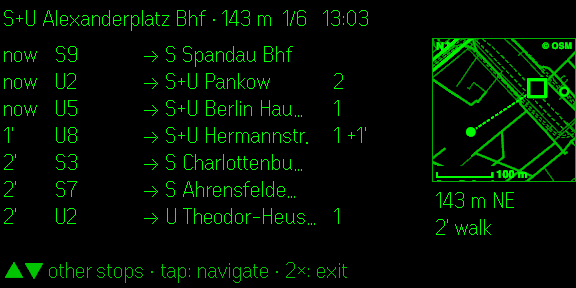
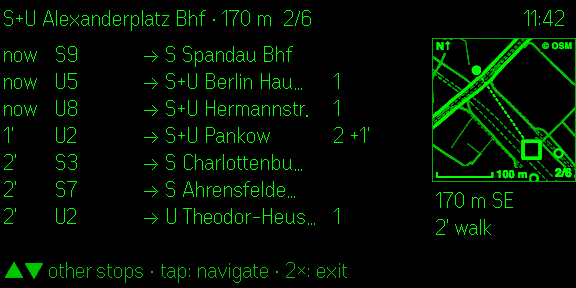
Release 0.5.0: clock and departure time on the board
- clock in the top right corner of every screen, updated on the minute
  together with the rest of the page
- departure board without map: scheduled departure time in its own
  column next to "departs in" (with the map there is no room, and the
  page would need 9 text containers; the glasses allow 8)
- "departs in" stays short for far departures ("85'", "2h") instead of
  a clock time that wrapped in the narrow column of the map layout
- leave out departures more than a day ahead (Transitous returned tram
  departures weeks ahead for a suspended line)
- journey header split in two containers, so the first line ends left
  of the clock and the next step keeps the full width
- headers shortened where they would run into the clock
- new store screenshots

Version 0.5.0.

diff --git a/src/glasses.ts b/src/glasses.ts
@@ -56,21 +56,31 @@ const LIST_ITEM_BYTES = 60
 const LIST_MAX_ITEMS = 20
 const CONFIRM_ITEMS = ['Continue journey', 'Close app · stay checked in', 'Check out'] as const
 const BOARD_FOOTER = '▲▼ other stops · tap: navigate · 2×: exit'
-const BOARD_COLUMNS = [
-  { name: 'when', x: 0, w: 70, capture: false },
-  { name: 'line', x: 70, w: 100, capture: false },
-  { name: 'dest', x: 170, w: 316, capture: true },
-  { name: 'info', x: 486, w: 90, capture: false },
-] as const
-/** Same columns, narrower, leaving room for the map on the right. */
+/** Clock in the top right corner of every page; headers end left of it. */
+const CLOCK_X = 520
+const CLOCK_W = 576 - CLOCK_X
+type BoardColumn = { name: keyof BoardRow; x: number; w: number; capture: boolean }
+const BOARD_COLUMNS: readonly BoardColumn[] = [
+  { name: 'time', x: 0, w: 62, capture: false },
+  { name: 'when', x: 62, w: 48, capture: false },
+  { name: 'line', x: 110, w: 92, capture: false },
+  { name: 'dest', x: 202, w: 286, capture: true },
+  { name: 'info', x: 488, w: 88, capture: false },
+]
+/** Narrower, leaving room for the map on the right. Without the departure time: there is no
+ *  room for it, and the page would need 9 text containers (the glasses allow 8). */
 const MAP_X = 576 - MAP_W
-const BOARD_COLUMNS_MAP = [
+const BOARD_COLUMNS_MAP: readonly BoardColumn[] = [
   { name: 'when', x: 0, w: 52, capture: false },
   { name: 'line', x: 52, w: 88, capture: false },
   { name: 'dest', x: 140, w: 190, capture: true },
   { name: 'info', x: 330, w: 102, capture: false },
-] as const
-const DEST_CHARS = 25
+]
+const boardColumns = (withMap: boolean) => (withMap ? BOARD_COLUMNS_MAP : BOARD_COLUMNS)
+/** Container ids after the columns (header is 1, columns start at 2). */
+const MAPINFO_ID = BOARD_COLUMNS_MAP.length + 3
+const MAP_ID = MAPINFO_ID + 1
+const DEST_CHARS = 23
 const DEST_CHARS_MAP = 15
 /** Redraw the map when you moved this far (m)… */
 const MAP_REDRAW_M = 25
@@ -97,7 +107,7 @@ const toFix = (l: AppLocation): Fix => ({ lat: l.latitude, lng: l.longitude, acc
 
 interface BoardContent {
   header: string
-  /** Newline-joined cells per column, same order as BOARD_COLUMNS. */
+  /** Newline-joined cells per column, same order as boardColumns(). */
   columns: string[]
   /** Text under the map: distance, direction and walking time to the stop. */
   mapInfo: string
@@ -157,6 +167,9 @@ export class GlassesApp {
   private imageSentAt = 0
   private lastRing = false
 
+  /** Id of the clock container on the current page (always the last one). */
+  private clockId = 0
+  private clockTimer: ReturnType<typeof setTimeout> | undefined
   private timer: ReturnType<typeof setInterval> | null = null
   private unsubscribers: (() => void)[] = []
 
@@ -176,13 +189,13 @@ export class GlassesApp {
     // Otherwise open straight into the last departure board (if recent) while fresh data loads
     const snapshot = resume ? false : this.restoreSnapshot()
     let first: Partial<CreateStartUpPageContainer>
-    if (resume) first = { containerTotalNum: 4, ...this.transitLayout() }
+    if (resume) first = this.withClock(this.transitLayout())
     else if (snapshot) {
       const texts = this.boardTexts(this.boardContent(clock()), this.settings.map)
-      first = { containerTotalNum: texts.length + (this.settings.map ? 1 : 0), textObject: texts, ...(this.settings.map ? { imageObject: [this.mapImage()] } : {}) }
+      first = this.withClock({ textObject: texts, ...(this.settings.map ? { imageObject: [this.mapImage()] } : {}) })
       this.mode = 'board'
       this.boardWithMap = this.settings.map
-    } else first = { containerTotalNum: 3, textObject: this.messageTexts('Simple euro transit', 'Locating closest stops…', ' ') }
+    } else first = this.withClock({ textObject: this.messageTexts('Simple euro transit', 'Locating closest stops…', ' ') })
     await serial(() => this.bridge.createStartUpPageContainer(new CreateStartUpPageContainer(first)))
     this.page++
     this.remember(first.textObject)
@@ -219,6 +232,7 @@ export class GlassesApp {
       await this.showMessage('No GPS fix yet', 'Waiting for location…\nCheck that the Even app may use your location.', 'loading')
     }
     this.timer = setInterval(() => void this.tick().catch(() => undefined), TICK_MS)
+    this.scheduleClock()
     startDevHooks(
       (fix) => {
         this.fix = fix
@@ -320,6 +334,8 @@ export class GlassesApp {
   private stop() {
     if (this.timer) clearInterval(this.timer)
     this.timer = null
+    clearTimeout(this.clockTimer)
+    this.clockTimer = undefined
     this.unsubscribers.forEach((u) => u())
     this.unsubscribers = []
     void this.bridge.stopAppLocationUpdates().catch(() => false)
@@ -348,9 +364,30 @@ export class GlassesApp {
     })
   }
 
+  /** Adds the clock as the last container and sets the container count. */
+  private withClock<P extends { textObject?: TextContainerProperty[]; listObject?: unknown[]; imageObject?: unknown[] }>(page: P) {
+    const others = (page.textObject?.length ?? 0) + (page.listObject?.length ?? 0) + (page.imageObject?.length ?? 0)
+    this.clockId = others + 1
+    const t = this.text(this.clockId, 'clock', 0, 36, hhmm(clock()), false, { xPosition: CLOCK_X, width: CLOCK_W })
+    return { ...page, textObject: [...(page.textObject ?? []), t], containerTotalNum: others + 1 }
+  }
+
+  /** Redraws right after every minute change, so the clock and the "departs in" minutes agree. */
+  private scheduleClock() {
+    clearTimeout(this.clockTimer)
+    this.clockTimer = setTimeout(() => {
+      void this.tick().catch(() => undefined)
+      this.scheduleClock()
+    }, 60_000 - (clock() % 60_000) + 200)
+  }
+
+  private async updateClock() {
+    if (this.clockId) await this.upgrade(this.clockId, 'clock', hhmm(clock()))
+  }
+
   private messageTexts(header: string, body: string, footer: string) {
     return [
-      this.text(1, 'hdr', 0, 36, header),
+      this.text(1, 'hdr', 0, 36, truncate(header, 38), false, { width: CLOCK_X }),
       this.text(2, 'body', 36, 216, body, true),
       this.text(3, 'foot', 252, 36, footer, false, { textColor: 2 }),
     ]
@@ -361,20 +398,20 @@ export class GlassesApp {
   private boardTexts(c: BoardContent, withMap: boolean) {
     const col = (id: number, name: string, x: number, w: number, content: string, capture = false) =>
       this.text(id, name, 36, 216, content, capture, { xPosition: x, width: w })
-    const columns = withMap ? BOARD_COLUMNS_MAP : BOARD_COLUMNS
+    const columns = boardColumns(withMap)
     const texts = [
-      this.text(1, 'hdr', 0, 36, c.header),
+      this.text(1, 'hdr', 0, 36, c.header, false, { width: CLOCK_X }),
       ...columns.map((k, i) => col(i + 2, k.name, k.x, k.w, c.columns[i], k.capture)),
-      this.text(6, 'foot', 252, 36, BOARD_FOOTER, false, { textColor: 2 }),
+      this.text(columns.length + 2, 'foot', 252, 36, BOARD_FOOTER, false, { textColor: 2 }),
     ]
     if (withMap) {
-      texts.push(this.text(7, 'mapinfo', 36 + MAP_H + 2, 216 - MAP_H - 2, c.mapInfo, false, { xPosition: MAP_X, width: MAP_W }))
+      texts.push(this.text(MAPINFO_ID, 'mapinfo', 36 + MAP_H + 2, 216 - MAP_H - 2, c.mapInfo, false, { xPosition: MAP_X, width: MAP_W }))
     }
     return texts
   }
 
   private mapImage() {
-    return new ImageContainerProperty({ xPosition: MAP_X, yPosition: 38, width: MAP_W, height: MAP_H, containerID: 8, containerName: 'map' })
+    return new ImageContainerProperty({ xPosition: MAP_X, yPosition: 38, width: MAP_W, height: MAP_H, containerID: MAP_ID, containerName: 'map' })
   }
 
   /** Records what a new page shows, so upgrade() can skip unchanged text. */
@@ -386,10 +423,10 @@ export class GlassesApp {
   /** False if the glasses refused the page; the previous page then stays on screen. */
   private async rebuild(page: Partial<RebuildPageContainer>): Promise<boolean> {
     if (!this.started) return false
-    const total = (page.textObject?.length ?? 0) + (page.listObject?.length ?? 0) + (page.imageObject?.length ?? 0)
-    this.remember(page.textObject)
+    const full = this.withClock(page)
+    this.remember(full.textObject)
     this.page++
-    const ok = await serial(() => this.bridge.rebuildPageContainer(new RebuildPageContainer({ containerTotalNum: total, ...page })))
+    const ok = await serial(() => this.bridge.rebuildPageContainer(new RebuildPageContainer(full)))
     if (!ok) mark('page refused by the glasses')
     return ok
   }
@@ -431,7 +468,7 @@ export class GlassesApp {
     const footer = mode === 'message' ? 'tap: back' : ' '
     if (!sameLayout) await this.rebuild({ textObject: this.messageTexts(header, body, footer) })
     else {
-      await this.upgrade(1, 'hdr', header)
+      await this.upgrade(1, 'hdr', truncate(header, 38))
       await this.upgrade(2, 'body', body)
       await this.upgrade(3, 'foot', footer)
     }
@@ -440,7 +477,7 @@ export class GlassesApp {
   private async showList(header: string, items: string[]): Promise<boolean> {
     const names = items.slice(0, LIST_MAX_ITEMS).map((s) => fitBytes(s, LIST_ITEM_BYTES))
     return this.rebuild({
-      textObject: [this.text(1, 'hdr', 0, 40, header)],
+      textObject: [this.text(1, 'hdr', 0, 40, header, false, { width: CLOCK_X })],
       listObject: [
         new ListContainerProperty({
           xPosition: 0,
@@ -552,7 +589,7 @@ export class GlassesApp {
     const metres = exact == null ? null : exact < 200 ? Math.round(exact / 10) * 10 : Math.round(exact / 50) * 50
     const dist = metres != null ? ` · ${metres} m` : ''
     const page = this.stations.length > 1 ? `  ${this.stationIdx + 1}/${this.stations.length}` : ''
-    const header = `${truncate(withoutTown(station.name ?? '?'), 30)}${dist}${page}   ${hhmm(now)}`
+    const header = `${truncate(withoutTown(station.name ?? '?'), 26)}${dist}${page}`
     const c = station.coordinate
     const where = metres != null && this.fix && c?.x != null && c.y != null ? `${metres} m ${compass(this.fix, { lat: c.x, lng: c.y })}` : ' '
     const walk = metres != null ? `${Math.max(1, Math.round(metres / WALK_M_PER_MIN))}' walk` : ' '
@@ -564,7 +601,7 @@ export class GlassesApp {
     const extra = [note, this.boardError].filter(Boolean)
     const column = (k: keyof BoardRow) =>
       [...rows.map((r) => r[k]), ...extra.map((e) => (k === 'dest' ? e : ' '))].slice(0, BOARD_ROWS).join('\n')
-    return { header, columns: [column('when'), column('line'), column('dest'), column('info')], mapInfo }
+    return { header, columns: boardColumns(this.settings.map).map((k) => column(k.name)), mapInfo }
   }
 
   private async renderBoard(placeholder?: string) {
@@ -578,8 +615,8 @@ export class GlassesApp {
       await this.rebuild({ textObject: this.boardTexts(c, withMap), ...(withMap ? { imageObject: [this.mapImage()] } : {}) })
     } else {
       await this.upgrade(1, 'hdr', c.header)
-      for (const [i, { name }] of BOARD_COLUMNS.entries()) await this.upgrade(i + 2, name, c.columns[i])
-      if (withMap) await this.upgrade(7, 'mapinfo', c.mapInfo)
+      for (const [i, { name }] of boardColumns(withMap).entries()) await this.upgrade(i + 2, name, c.columns[i])
+      if (withMap) await this.upgrade(MAPINFO_ID, 'mapinfo', c.mapInfo)
     }
     if (withMap) void this.sendMap(rebuilt)
     const net = this.network === swiss ? '' : ` (${this.network.name})`
@@ -621,7 +658,7 @@ export class GlassesApp {
       })
       if (this.mode !== 'board' || !this.boardWithMap) return
       // Page changed while waiting: the next board page sends its own map
-      sent = await this.sendImage(8, 'map', png)
+      sent = await this.sendImage(MAP_ID, 'map', png)
       if (!sent) return
       this.mapKey = key
       this.mapFix = fix
@@ -661,7 +698,7 @@ export class GlassesApp {
   private async showTargets() {
     this.mode = 'targets'
     if (this.targets.length === 0) {
-      await this.showList('No targets yet · add them in the phone app', [BACK])
+      await this.showList('No targets · add them in the phone app', [BACK])
     } else {
       await this.showList('Navigate to…', [...this.targets.map((t) => `→ ${t.label}`), BACK])
     }
@@ -699,7 +736,7 @@ export class GlassesApp {
       await this.showMessage(`→ ${target.label}`, 'No connection found (or offline).\nTap to go back.')
       return
     }
-    const shown = await this.showList(`→ ${truncate(target.label, 24)} · pick a connection`, [
+    const shown = await this.showList(`→ ${truncate(target.label, 20)} · pick a connection`, [
       ...this.options.map((o) => connectionItem(o.trip)),
       BACK,
     ])
@@ -725,8 +762,10 @@ export class GlassesApp {
   private transitLayout() {
     return {
       textObject: [
-        this.text(1, 'hdr', 0, 64, ' '),
+        // Two containers, so the first line ends left of the clock and the second gets the full width
+        this.text(1, 'hdr', 0, 32, ' ', false, { width: CLOCK_X, paddingLength: 2 }),
         this.text(2, 'steps', 136, 152, ' ', true, { paddingLength: 2 }),
+        this.text(5, 'action', 32, 32, ' ', false, { paddingLength: 2 }),
       ],
       imageObject: [
         new ImageContainerProperty({ xPosition: 0, yPosition: 64, width: HALF_W, height: LINE_H, containerID: 3, containerName: 'lineL' }),
@@ -771,7 +810,6 @@ export class GlassesApp {
     const p = estimateProgress(a.trip, now, this.fix)
 
     const action = p.arrived ? `${nextAction(a.trip, p, now)} Tap: check out` : nextAction(a.trip, p, now)
-    const header = `${tripHeader(a.target.label, a.trip, now)}\n${truncate(action, 52)}`
     const { lines, currentLine } = tripSteps(a.trip, p)
     // Text must fit the container; overflowing text scrolls inside the firmware and eats swipes
     const rows = lines.length > STEP_ROWS ? STEP_ROWS - 1 : STEP_ROWS
@@ -796,7 +834,8 @@ export class GlassesApp {
       void this.sendImages()
     }
 
-    await this.upgrade(1, 'hdr', header)
+    await this.upgrade(1, 'hdr', tripHeader(a.target.label, a.trip, now))
+    await this.upgrade(5, 'action', truncate(action, 52))
     await this.upgrade(2, 'steps', steps)
     this.status(`${a.target.label}: ${nextAction(a.trip, p, now)}`)
   }
@@ -851,6 +890,7 @@ export class GlassesApp {
   private async tick() {
     if (!this.foreground) return
     const now = clock()
+    await this.updateClock()
     if (this.mode === 'board') {
       if (now - this.boardFetchedAt > BOARD_REFRESH_MS) await this.loadBoard()
       else await this.renderBoard()
@@ -936,7 +976,7 @@ export class GlassesApp {
         return this.showTargets()
       case 'transit':
         this.mode = 'confirmStop'
-        await this.showList(`Checked in → ${truncate(this.active?.target.label ?? '', 30)}`, [...CONFIRM_ITEMS])
+        await this.showList(`Checked in → ${truncate(this.active?.target.label ?? '', 26)}`, [...CONFIRM_ITEMS])
         return
       case 'confirmStop':
         return this.showTransit()

diff --git a/src/format.ts b/src/format.ts
@@ -62,15 +62,22 @@ export function shortStop(name: string, context?: string): string {
 
 // ---------- Departure board ----------
 
+/** Departures further ahead than this are left off the board. */
+const BOARD_HORIZON_MS = 24 * 3_600_000
+
 export interface BoardRow {
+  /** Scheduled departure time; a delay shows in `info`. */
+  time: string
+  /** Time left until the (delay-adjusted) departure. */
   when: string
   line: string
   dest: string
   info: string
 }
 
-/** One row per departure; rendered as aligned columns (time · line · → destination · platform/delay). */
-export function boardRows(entries: StationboardEntry[], stationName: string, now: number, max: number, destChars = 25): BoardRow[] {
+/** One row per departure; rendered as aligned columns (time · departs in · line · → destination · platform/delay).
+ *  `when` stays short ("85'", "2h") so it fits the narrow column of the map layout too. */
+export function boardRows(entries: StationboardEntry[], stationName: string, now: number, max: number, destChars = 23): BoardRow[] {
   const parse = (iso: string | null | undefined) => parseTime(iso) ?? NaN
   return entries
     .map((e) => {
@@ -78,16 +85,18 @@ export function boardRows(entries: StationboardEntry[], stationName: string, now
       const prog = parse(e.stop.prognosis?.departure)
       const delayMin = e.stop.delay ?? 0
       const eff = !Number.isNaN(prog) ? prog : sched + delayMin * 60_000
-      return { e, eff, delayMin: Math.max(0, Math.round((eff - sched) / 60_000)) }
+      return { e, sched, eff, delayMin: Math.max(0, Math.round((eff - sched) / 60_000)) }
     })
-    .filter((r) => !Number.isNaN(r.eff) && r.eff >= now - 30_000)
+    // Some feeds return departures weeks ahead when a line is suspended: not useful on a live board
+    .filter((r) => !Number.isNaN(r.eff) && r.eff >= now - 30_000 && r.eff <= now + BOARD_HORIZON_MS)
     .sort((a, b) => a.eff - b.eff)
     .slice(0, max)
-    .map(({ e, eff, delayMin }) => {
+    .map(({ e, sched, eff, delayMin }) => {
       const mins = minutesUntil(eff, now)
       const plat = e.stop.prognosis?.platform ?? e.stop.platform
       return {
-        when: mins <= 0 ? 'now' : mins < 60 ? `${mins}'` : hhmm(eff),
+        time: hhmm(Number.isNaN(sched) ? eff : sched),
+        when: mins <= 0 ? 'now' : mins < 100 ? `${mins}'` : `${Math.round(mins / 60)}h`,
         line: truncate(lineName(e.category, e.number), 8),
         dest: `→ ${truncate(shortStop(e.to, stationName), destChars)}`,
         info: [plat, delayMin > 0 ? `+${delayMin}'` : ''].filter(Boolean).join(' '),
@@ -113,7 +122,8 @@ export function tripHeader(targetName: string, trip: Trip, now: number): string 
   const last = trip.legs[trip.legs.length - 1]
   const left = trip.end - now
   const eta = left > 0 ? ` · ${duration(left)} left` : ''
-  return truncate(`→ ${targetName}  arr ${last ? time(last.to) : '?'}${eta}`, LINE_CHARS + 4)
+  // Leaves room for the clock in the top right corner
+  return truncate(`→ ${targetName}  arr ${last ? time(last.to) : '?'}${eta}`, LINE_CHARS - 6)
 }
 
 /** The single most important instruction right now. */

diff --git a/src/line-layout.test.ts b/src/line-layout.test.ts
@@ -55,10 +55,23 @@ describe('boardRows', () => {
     const rows = boardRows(entries, 'Zürich HB', first - 3 * 60_000, 7)
     expect(rows).toHaveLength(7)
     for (const r of rows) {
-      expect(r.when).toMatch(/^(now|\d+'|\d\d:\d\d)$/)
+      expect(r.time).toMatch(/^\d\d:\d\d$/)
+      expect(r.when).toMatch(/^(now|\d+'|\d+h)$/)
       expect(r.line.length).toBeGreaterThan(0)
       expect(r.dest).toMatch(/^→ \S/)
     }
     expect(rows[0].info).toContain(entries[0].stop.platform!)
+    expect(rows[0].when).toBe("3'")
+  })
+
+  it('keeps "departs in" short for departures far ahead', () => {
+    const at = (min: number) => boardRows(entries, 'Zürich HB', first - min * 60_000, 1)[0].when
+    expect(at(99)).toBe("99'")
+    expect(at(100)).toBe('2h')
+    expect(at(200)).toBe('3h')
+  })
+
+  it('leaves out departures more than a day ahead', () => {
+    expect(boardRows(entries, 'Zürich HB', first - 25 * 3_600_000, 7)).toHaveLength(0)
   })
 })

diff --git a/store/README.md b/store/README.md
@@ -6,7 +6,7 @@ The `evenhub` CLI cannot upload screenshots (it only updates name, tagline, desc
 - `screenshots/`: for the listing. 576×288, glasses display on black.
 - `raw/`: the original simulator output (RGBA, transparent background), as captured.
 
-Captured from the Even Hub simulator (`/api/screenshot/glasses`) with live timetable data on 2026-11-04, as the
+Captured from the Even Hub simulator (`/api/screenshot/glasses`) with live timetable data on 2026-11-09, as the
 submission guidelines ask ("Screenshots match what the app actually renders on device").
 To redo the black versions after new captures: `node scripts/flatten-screenshots.mjs store/raw store/screenshots`.
 

diff --git a/README.md b/README.md
@@ -52,7 +52,9 @@ Captured from the Even Hub simulator with live timetable data (576 × 288 px, th
 ## Features
 
 - **Departure board** of the closest stops (GPS): minutes to departure, line, destination,
-  platform, delay. Swipe to switch between nearby stops.
+  platform, delay. Without the map, the departure time gets its own column too. Swipe to switch
+  between nearby stops.
+- **Clock** in the top right corner of every screen.
 - **Street map** next to the board: you, the selected stop, the other stops nearby, distance,
   direction and walking time.
 - **Navigation** to preset targets (home, work, any stop or address) set up on the phone: pick a

diff --git a/BETA-TEST.md b/BETA-TEST.md
@@ -18,7 +18,7 @@ scripts/beta-release.sh "what changed"
 ```
 
 It type-checks, runs the tests, builds `icon.png` and `simple-euro-transit.ehpk`, creates the app (first run) or uploads a new version, promotes it to **beta** and invites the tester.
-For every later build raise `"version"` in `app.json` first (currently `0.4.2`, next e.g. `0.4.3`); a version number can only be uploaded once.
+For every later build raise `"version"` in `app.json` first (currently `0.5.0`, next e.g. `0.5.1`); a version number can only be uploaded once.
 
 Then manually:
 
